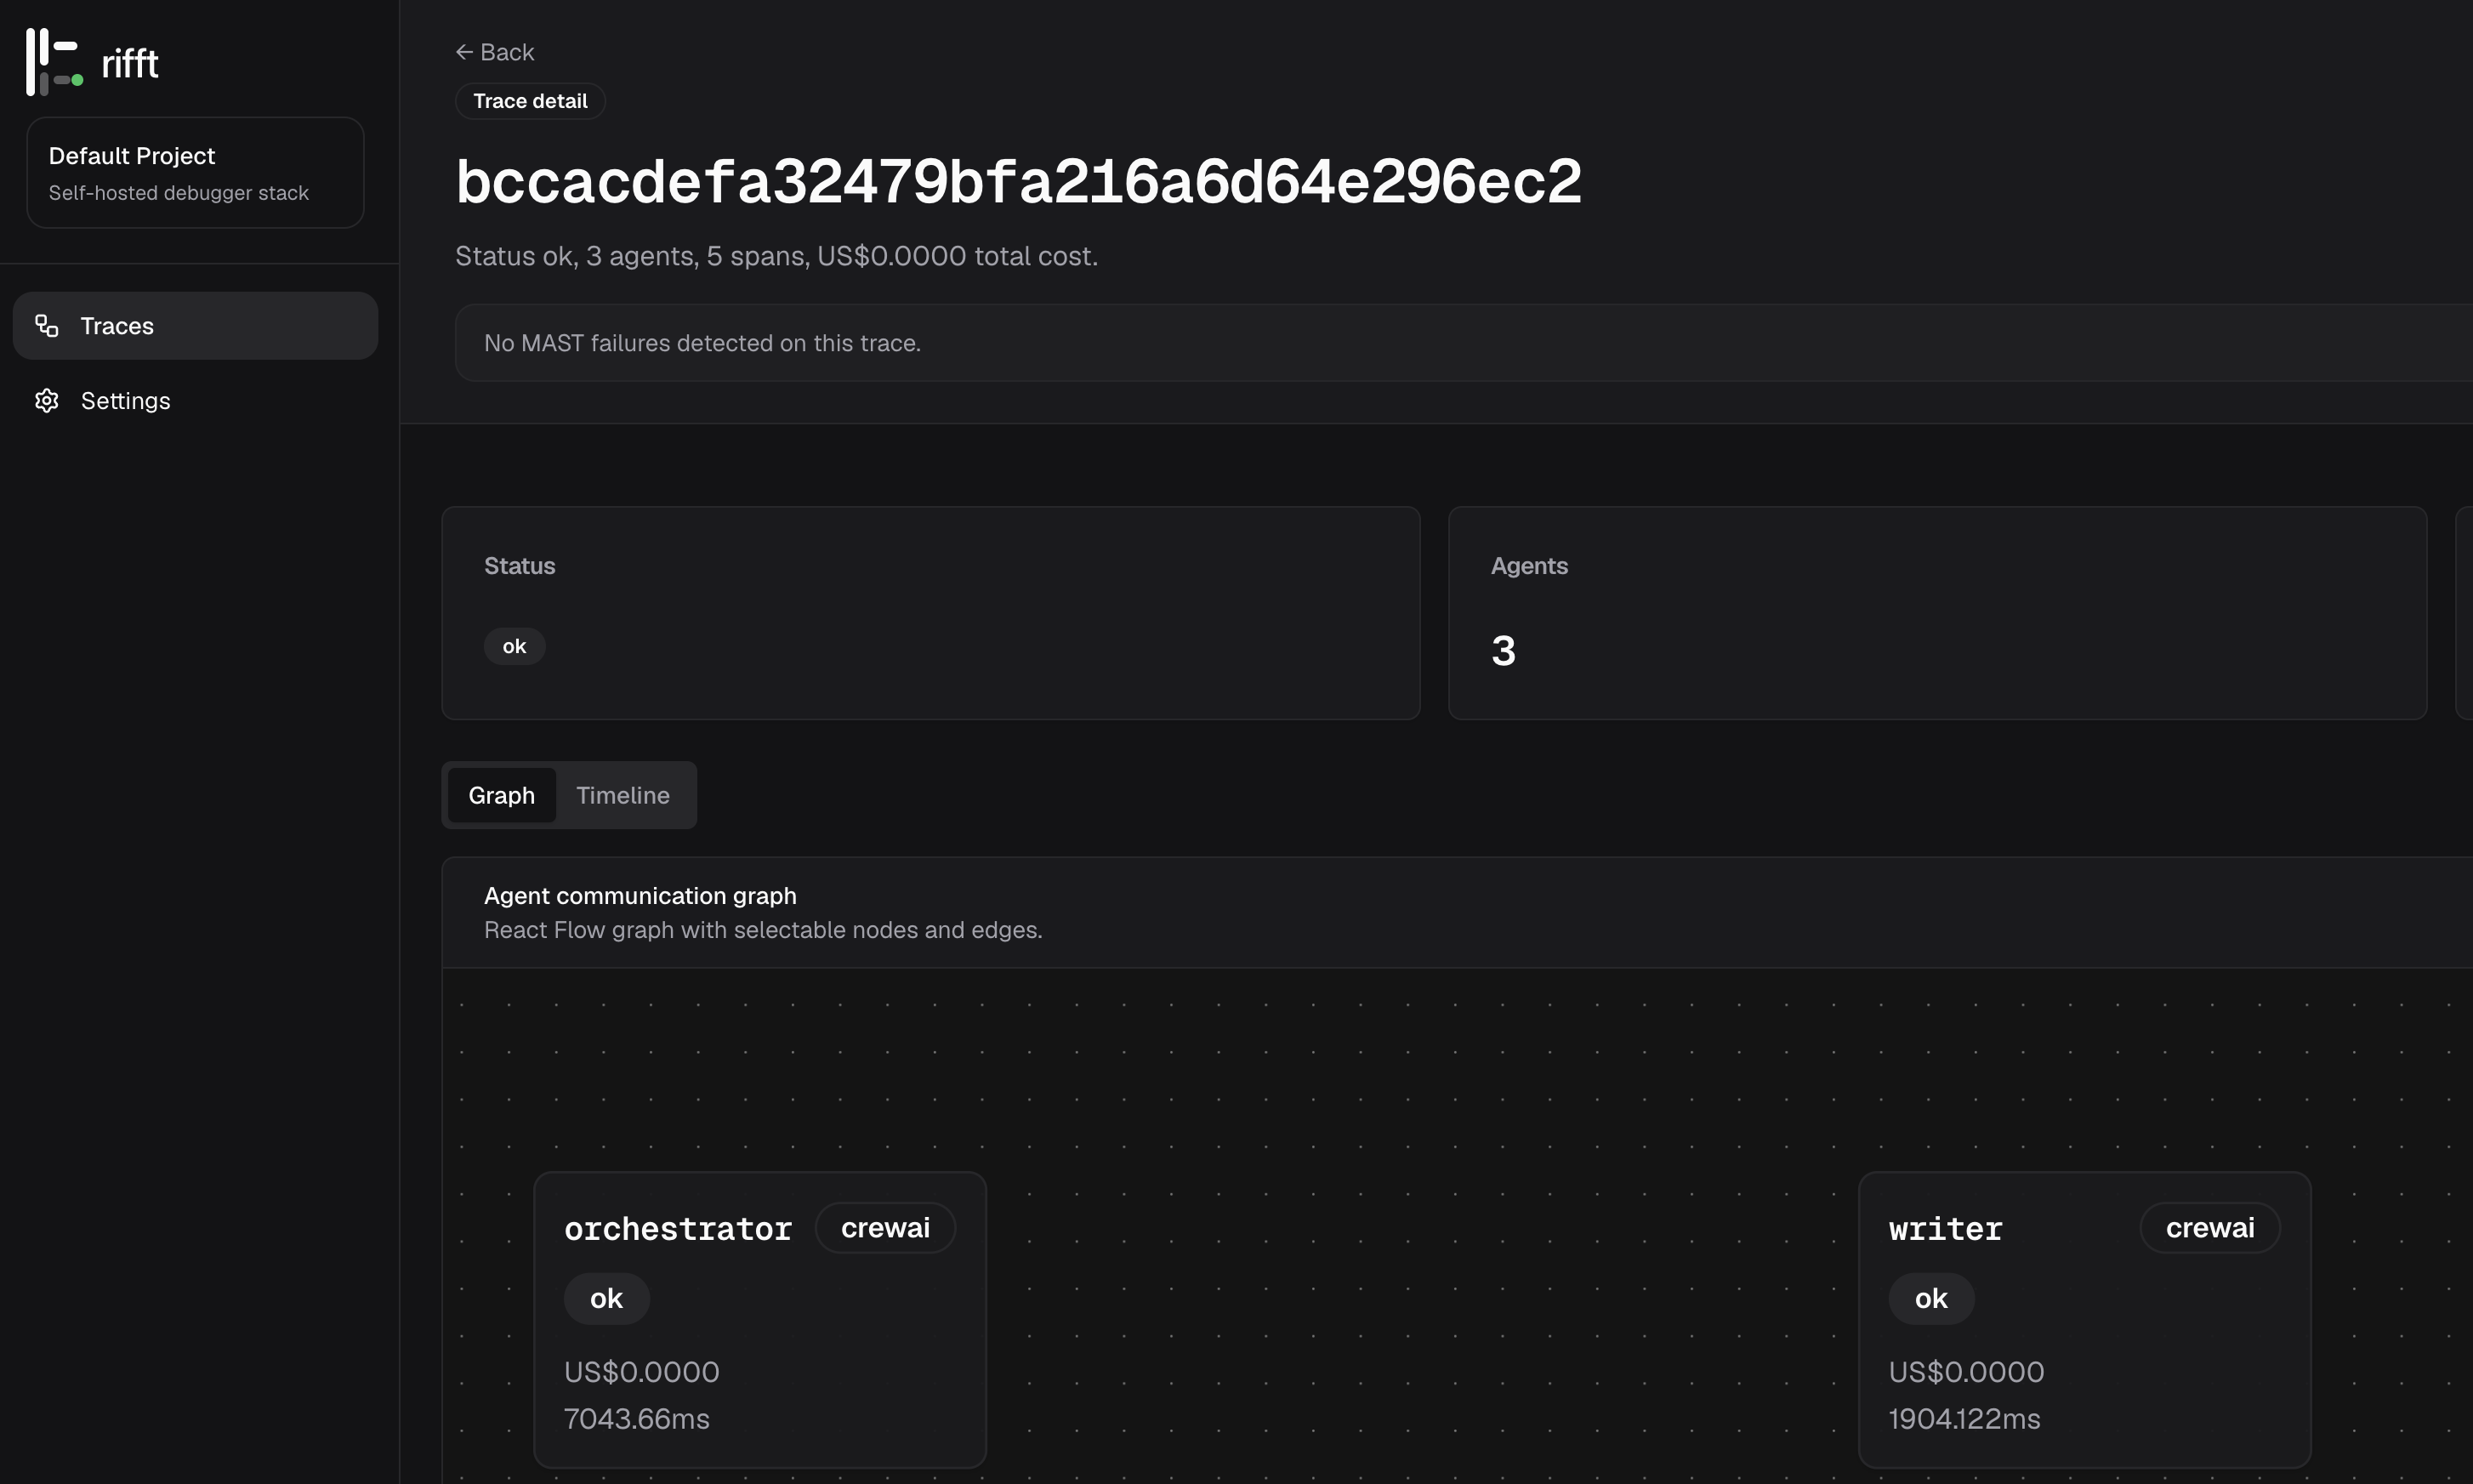
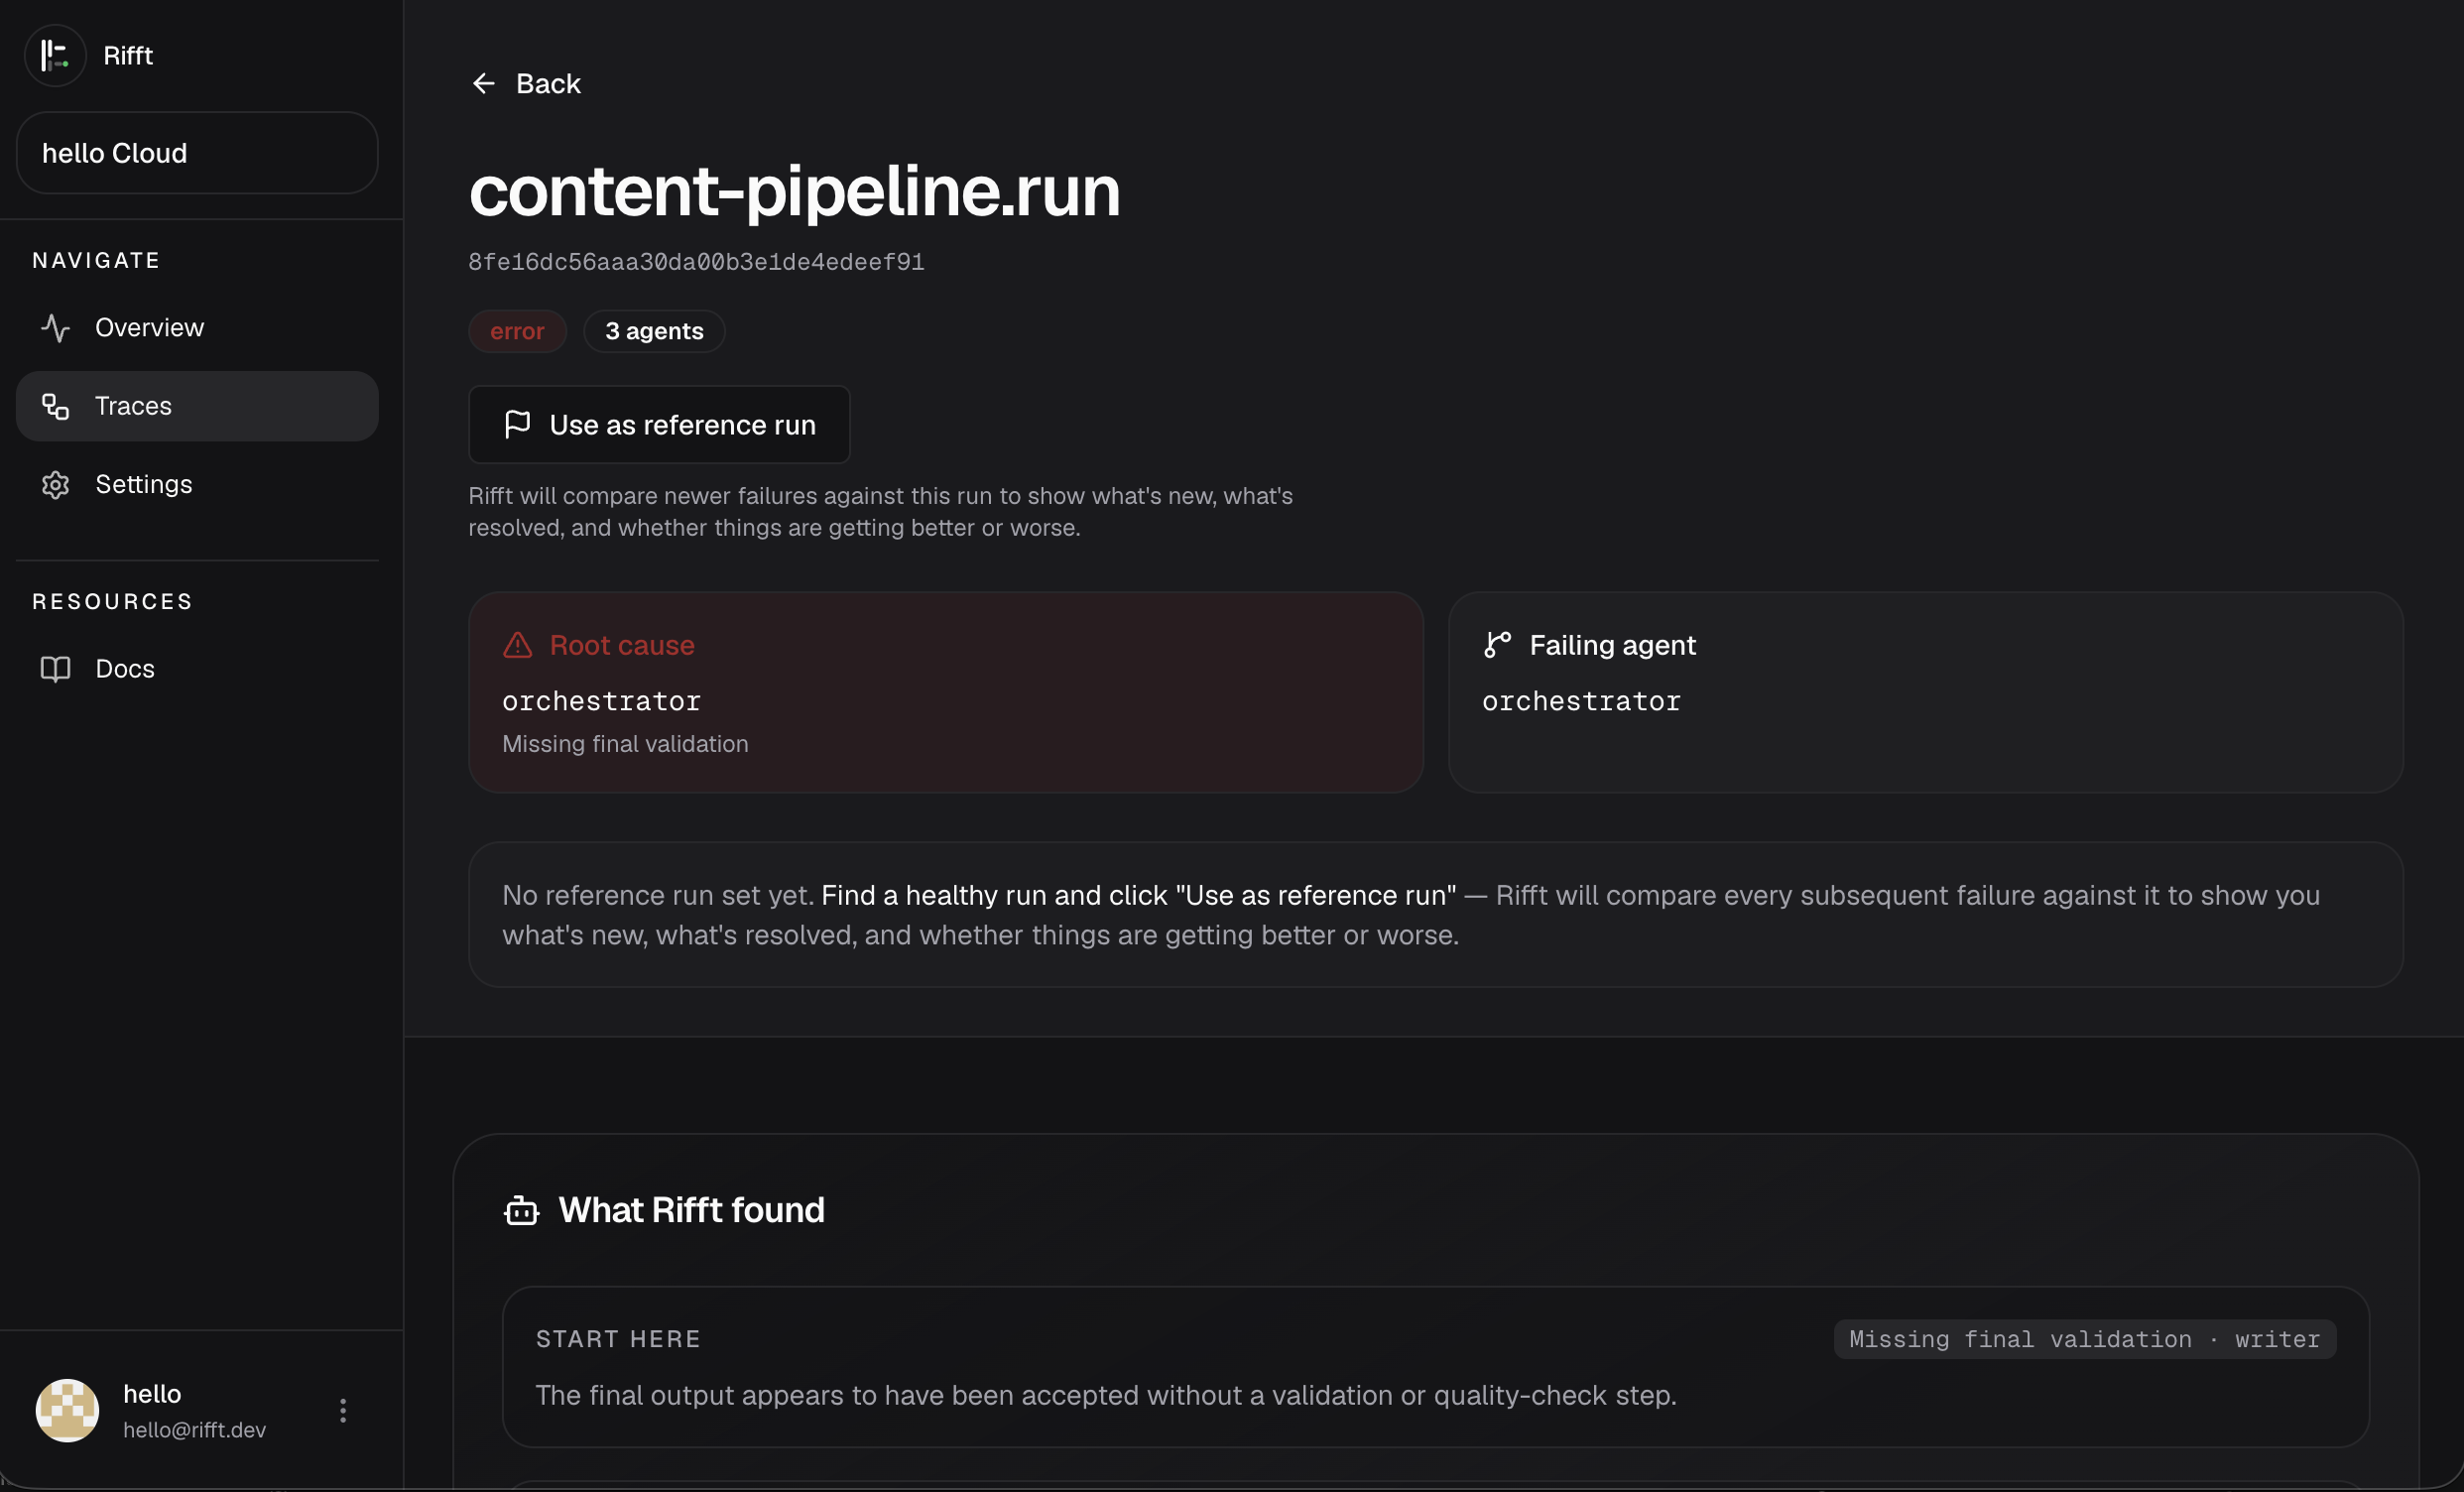
screenshot

diff --git a/README.md b/README.md
@@ -135,33 +135,6 @@ rifft/
 - Contributing: [CONTRIBUTING.md](/Users/ned/Documents/GitHub/Rifft/CONTRIBUTING.md)
 - Marketing landing page: [apps/web/app/page.tsx](/Users/ned/Documents/GitHub/Rifft/apps/web/app/page.tsx)
 
-## Cloud billing env
-
-To enable the in-app Pro upgrade CTA after the first trace lands, set:
-
-```bash
-POLAR_ACCESS_TOKEN=...
-POLAR_PRO_PRODUCT_ID=...
-```
-
-The web app creates a Polar checkout session server-side and passes the Rifft `account_id` as `external_customer_id`, so the webhook can map the subscription back to the correct cloud account deterministically.
-
-To sync paid plan state back into Rifft Cloud, point Polar webhooks at:
-
-```bash
-POST /webhooks/polar
-```
-
-and set:
-
-```bash
-POLAR_WEBHOOK_SECRET=...
-```
-
-The API uses this webhook to store subscription state, switch Cloud Free vs Cloud Pro in settings, and keep project retention aligned with the paid plan.
-
-For paid users, the settings page also opens the Polar customer portal through a server-side customer session using the same `external_customer_id`, so subscription management stays deterministic too.
-
 ## License
 
 MIT

diff --git a/docs/implementation-tracker.md b/docs/implementation-tracker.md
@@ -318,5 +318,3 @@ Free50K/month $0
 Pro500K/month$49/month 
 Scale2M/month$149/month
 EnterpriseUnlimited$500+/month
-
-The Polar integration

diff --git a/AGENTS.md b/AGENTS.md
@@ -1,0 +1,1 @@
+## Imported Claude Cowork project instructions